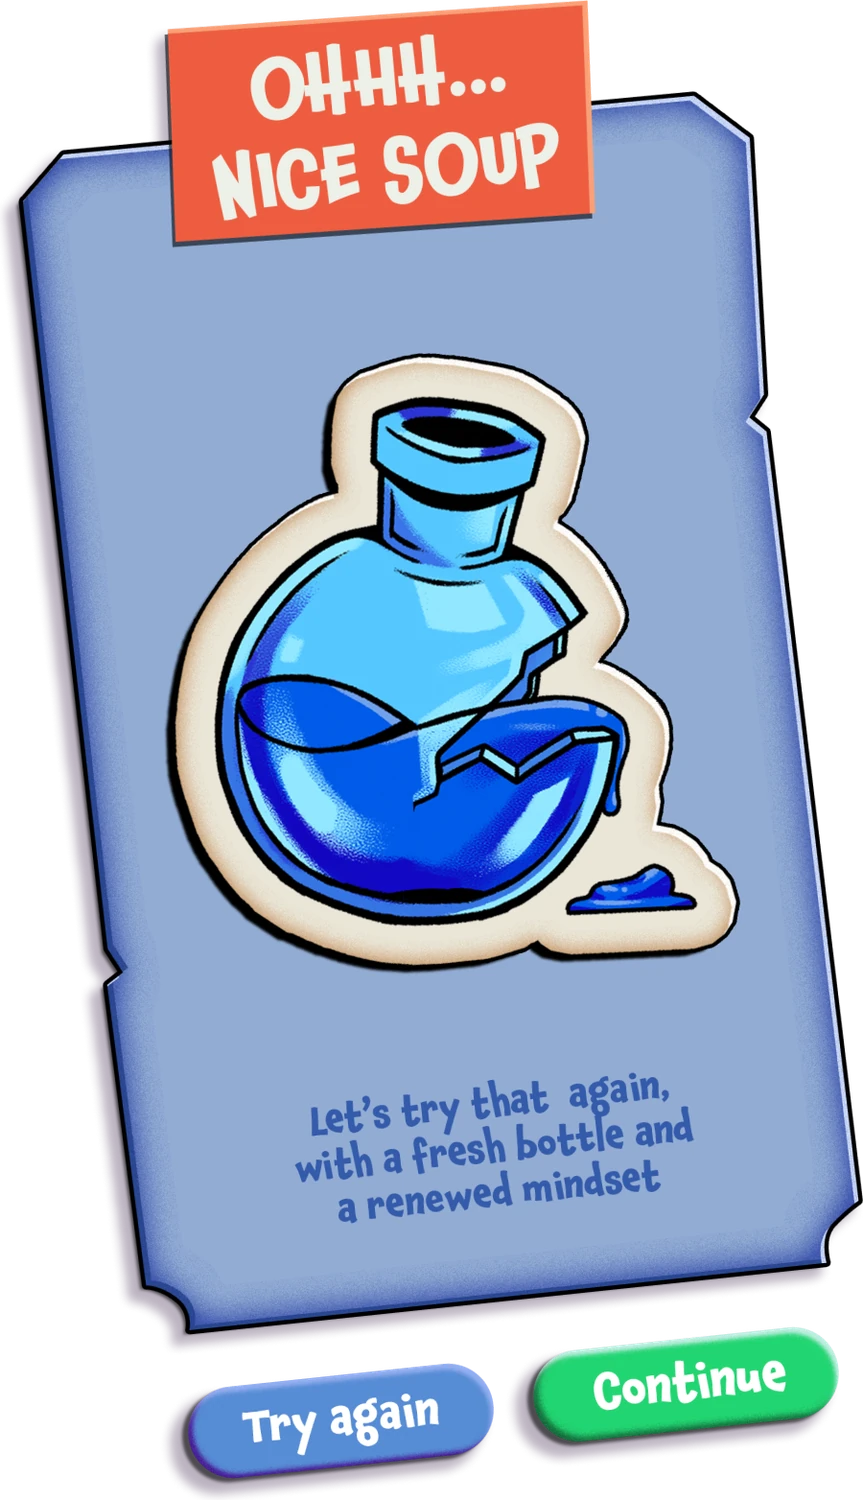
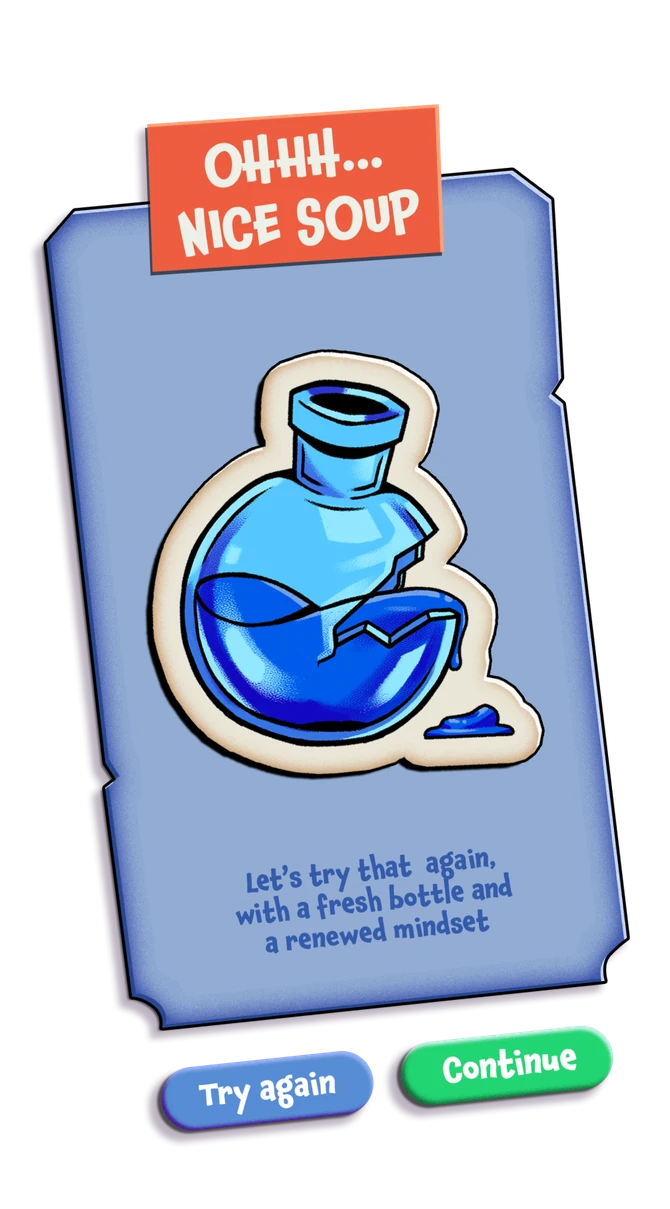
Matching Potions: toolkit, game screens and win/lose as loose pieces from Figma, each opens on its own and scales on hover

diff --git a/js/project-blocks.js b/js/project-blocks.js
@@ -58,22 +58,70 @@
           image: mp("shelves", 1144, 869, "Potion shelves"),
         },
         { type: "full", tone: "cream", image: mp("typography", 2400, 780, "Chaloops font for the titles, Providence Sans for body text, and the game’s colour palette: Mystic Amethyst #5D4AD9, Deep Midnight #272559, Lapis Powder #0A3EA6, #5CB6F9, #592202 and #CE5936") },
-        { type: "full", tone: "cream", flat: true, spots: [
-            { src: "assets/projects/matching-potions/c/gs-1.webp", alt: "Intro: the alchemy journal", bg: "#9ba9f5", x: 6.25, y: 21.94, w: 16.81, h: 73.51 },
-            { src: "assets/projects/matching-potions/c/gs-2.webp", alt: "Potions selection, level 2", bg: "#9ba9f5", x: 25.0, y: 14.42, w: 15.62, h: 72.41 },
-            { src: "assets/projects/matching-potions/c/gs-3.webp", alt: "Elixir of Clarity recipe", bg: "#9ba9f5", x: 42.36, y: 23.67, w: 15.14, h: 71.79 },
-            { src: "assets/projects/matching-potions/c/gs-4.webp", alt: "The potion shelf", bg: "#9ba9f5", x: 59.51, y: 16.93, w: 16.04, h: 72.73 },
-            { src: "assets/projects/matching-potions/c/gs-5.webp", alt: "Dew of Eternity identification card", bg: "#9ba9f5", x: 77.29, y: 20.53, w: 16.46, h: 73.2 },
-          ], image: mp("game-screens", 2400, 1063, "Game screens: intro journal, potions selection, Elixir of Clarity recipe, the potion shelf and the Dew of Eternity identification card") },
-        { type: "full", tone: "cream", spots: [
-            { src: "assets/projects/matching-potions/c/wl-lose.webp", alt: "Lose screen: Ohhh… nice soup", bg: "#9ba9f5", x: 29.79, y: 11.57, w: 22.71, h: 88.43 },
-            { src: "assets/projects/matching-potions/c/wl-game.webp", alt: "Match-3 gameplay", bg: "#9ba9f5", x: 54.93, y: 14.79, w: 18.68, h: 82.72 },
-            { src: "assets/projects/matching-potions/c/wl-win.webp", alt: "Win screen: Pure magic!", bg: "#9ba9f5", x: 76.04, y: 11.57, w: 22.71, h: 88.43 },
-            { src: "assets/projects/matching-potions/c/potion-cluster.webp", alt: "Prosperity on a Jar identification card and potion", bg: "#9ba9f5", x: 3.82, y: 17.57, w: 24.17, h: 64.86 },
-          ], image: mp("win-lose", 2400, 1138, "Win, lose and gameplay screens next to the potion illustration: Ohhh… nice soup, the Match-3 board and Pure magic!") },
         {
-          type: "feature", tone: "night",
-          image: mp("ui-toolkit", 1750, 1020, "UI toolkit: buttons, bars, stars and potion bottles"),
+          type: "scene", tone: "cream", flat: true, w: 1440, h: 638, bg: "#9ba9f5", itemBg: "#9ba9f5", radius: "clamp(24px, 3.5vw, 52px) clamp(24px, 3.5vw, 52px) 0 0",
+          layers: [
+            { src: "assets/projects/matching-potions/c/gs-title.webp", alt: "Game Screens", x: 571.3, y: 42.4, w: 297.9, h: 33.8, still: true },
+            { src: "assets/projects/matching-potions/c/gs-1.webp", alt: "Intro: the alchemy journal", x: 90, y: 140.1, w: 256.2, h: 483 },
+            { src: "assets/projects/matching-potions/c/gs-2.webp", alt: "Potions selection, level 2", x: 360.5, y: 92, w: 225.3, h: 461.5 },
+            { src: "assets/projects/matching-potions/c/gs-3.webp", alt: "Elixir of Clarity recipe", x: 610.3, y: 151.2, w: 217.9, h: 458.1 },
+            { src: "assets/projects/matching-potions/c/gs-4.webp", alt: "The potion shelf", x: 856.6, y: 107.9, w: 231.5, h: 464.4 },
+            { src: "assets/projects/matching-potions/c/gs-5.webp", alt: "Dew of Eternity identification card", x: 1113.3, y: 130.5, w: 236.7, h: 466.7 },
+          ],
+        },
+        {
+          type: "scene", tone: "cream", w: 1440, h: 683, bg: "#9ba9f5", itemBg: "#9ba9f5",
+          layers: [
+            { src: "assets/projects/matching-potions/c/potion-cluster.webp", alt: "Prosperity on a Jar identification card and potion", x: 55, y: 120, w: 348, h: 443 },
+            { src: "assets/projects/matching-potions/c/wl-lose.webp", alt: "Lose screen: Ohhh… nice soup", x: 422, y: 78, w: 335.2, h: 605 },
+            { src: "assets/projects/matching-potions/c/wl-game.webp", alt: "Match-3 gameplay", x: 791, y: 101, w: 268.8, h: 564.9 },
+            { src: "assets/projects/matching-potions/c/wl-win.webp", alt: "Win screen: Pure magic!", x: 1089.8, y: 79.3, w: 332.2, h: 603.7 },
+          ],
+        },
+        {
+          type: "scene", tone: "night", w: 1920, h: 1080, itemBg: "#f3e8d2",
+          layers: [
+            { src: "assets/projects/matching-potions/c/tk-bg.webp", x: 0, y: 0, w: 1920, h: 1080, still: true },
+            { src: "assets/projects/matching-potions/c/tk-00.webp", alt: "Toolkit page", x: 79, y: 39, w: 1751, h: 1021, still: true },
+            { src: "assets/projects/matching-potions/c/tk-01.webp", alt: "UI TOOLKIT", x: 721.0, y: 122.5, w: 473.3, h: 87.1, still: true },
+            { src: "assets/projects/matching-potions/c/tk-02.webp", alt: "Popup background", x: 276, y: 264, w: 293, h: 296 },
+            { src: "assets/projects/matching-potions/c/tk-03.webp", alt: "Shift Identity option button", x: 523, y: 716, w: 274, h: 47 },
+            { src: "assets/projects/matching-potions/c/tk-04.webp", alt: "Resume button", x: 618, y: 334, w: 177, h: 55 },
+            { src: "assets/projects/matching-potions/c/tk-05.webp", alt: "Pause button", x: 781, y: 507, w: 69, h: 67 },
+            { src: "assets/projects/matching-potions/c/tk-06.webp", alt: "Options button", x: 617, y: 414, w: 180, h: 56 },
+            { src: "assets/projects/matching-potions/c/tk-07.webp", alt: "Menu button", x: 698, y: 507, w: 69, h: 67 },
+            { src: "assets/projects/matching-potions/c/tk-08.webp", alt: "Inventory button", x: 617, y: 505, w: 69, h: 67 },
+            { src: "assets/projects/matching-potions/c/tk-09.webp", alt: "Exit button", x: 617, y: 255, w: 180, h: 56 },
+            { src: "assets/projects/matching-potions/c/tk-10.webp", alt: "Close button", x: 867, y: 507, w: 69, h: 67 },
+            { src: "assets/projects/matching-potions/c/tk-11.webp", alt: "Title frame, blue", x: 844, y: 279, w: 176, h: 72 },
+            { src: "assets/projects/matching-potions/c/tk-12.webp", alt: "Title frame, purple", x: 844, y: 393, w: 175, h: 67 },
+            { src: "assets/projects/matching-potions/c/tk-13.webp", alt: "Slider", x: 754, y: 615, w: 294, h: 55 },
+            { src: "assets/projects/matching-potions/c/tk-14.webp", alt: "Next arrow, right", x: 459, y: 716, w: 26, h: 45 },
+            { src: "assets/projects/matching-potions/c/tk-15.webp", alt: "Next arrow, left", x: 369, y: 716, w: 27, h: 47 },
+            { src: "assets/projects/matching-potions/c/tk-16.webp", alt: "Back button", x: 950, y: 507, w: 69, h: 67 },
+            { src: "assets/projects/matching-potions/c/tk-17.webp", alt: "Locked star", x: 569, y: 610, w: 61, h: 61 },
+            { src: "assets/projects/matching-potions/c/tk-18.webp", alt: "Star", x: 650, y: 609, w: 63, h: 63 },
+            { src: "assets/projects/matching-potions/c/tk-19.webp", alt: "Locked third star", x: 357, y: 600, w: 78, h: 74 },
+            { src: "assets/projects/matching-potions/c/tk-20.webp", alt: "Third star", x: 467, y: 600, w: 79, h: 75 },
+            { src: "assets/projects/matching-potions/c/tk-21.webp", alt: "Ingredient counter, checked", x: 255, y: 610, w: 72, h: 65 },
+            { src: "assets/projects/matching-potions/c/tk-22.webp", alt: "Ingredient counter", x: 862, y: 707, w: 157, h: 65 },
+            { src: "assets/projects/matching-potions/c/tk-23.webp", alt: "Potion identification card", x: 1051, y: 211, w: 334, h: 531 },
+            { src: "assets/projects/matching-potions/c/tk-24.webp", alt: "Potion identification card", x: 1488.8, y: 125, w: 281.4, h: 428.7 },
+            { src: "assets/projects/matching-potions/c/tk-25.webp", alt: "Potion identification card", x: 1361, y: 329, w: 297.9, h: 438.1 },
+            { src: "assets/projects/matching-potions/c/tk-26.webp", alt: "Potion, level 1 · luck", x: 1303, y: 809, w: 92, h: 128 },
+            { src: "assets/projects/matching-potions/c/tk-27.webp", alt: "Potion, level 3 · health", x: 1578, y: 783, w: 169, h: 182 },
+            { src: "assets/projects/matching-potions/c/tk-28.webp", alt: "Potion, level 1 · love", x: 534, y: 809, w: 85, h: 157 },
+            { src: "assets/projects/matching-potions/c/tk-29.webp", alt: "Potion, level 1 · health", x: 218, y: 778, w: 127, h: 191 },
+            { src: "assets/projects/matching-potions/c/tk-30.webp", alt: "Potion, level 2 · luck", x: 386, y: 799, w: 99, h: 163 },
+            { src: "assets/projects/matching-potions/c/tk-31.webp", alt: "Potion, level 2 · love", x: 1179, y: 810, w: 89, h: 140 },
+            { src: "assets/projects/matching-potions/c/tk-32.webp", alt: "Potion, level 3 · abundance", x: 1424, y: 781, w: 113, h: 188 },
+            { src: "assets/projects/matching-potions/c/tk-33.webp", alt: "Potion, level 3 · love", x: 794, y: 789, w: 99, h: 170 },
+            { src: "assets/projects/matching-potions/c/tk-34.webp", alt: "Potion, level 3 · luck", x: 1037, y: 792, w: 98, h: 163 },
+            { src: "assets/projects/matching-potions/c/tk-35.webp", alt: "Potion, level 1 · spirit", x: 684, y: 796, w: 50, h: 170 },
+            { src: "assets/projects/matching-potions/c/tk-36.webp", alt: "Potion, level 2 · health", x: 930, y: 832, w: 73, h: 105 },
+            { src: "assets/projects/matching-potions/c/tk-37.webp", alt: "Start button", x: 291, y: 162, w: 212, h: 66 },
+            { src: "assets/projects/matching-potions/c/tk-38.webp", alt: "Loading screen bottle", x: 540, y: 149, w: 66, h: 79 },
+          ],
         },
         {
           type: "split", tone: "parchment", side: "left",

diff --git a/js/project.js b/js/project.js
@@ -97,6 +97,18 @@
         </div>`,
       text: (b) => `
         <div class="cb-center rv">${head(b.title)}${para(b.text)}${b.note ? `<p class="cb-note">${b.note}</p>` : ""}</div>`,
+      scene: (b) => {
+        // a composition of separate pieces (exported from Figma) laid out as in the design; the interactive ones open on their own and grow a little on hover
+        const pc = (v, t) => `${Math.round((v / t) * 10000) / 100}%`;
+        const layer = (l) => {
+          const pos = `left:${pc(l.x, b.w)};top:${pc(l.y, b.h)};width:${pc(l.w, b.w)};height:${pc(l.h, b.h)}`;
+          const im = `<img src="${l.src}" alt="${l.alt || ""}" width="${Math.round(l.w * 2)}" height="${Math.round(l.h * 2)}" loading="lazy" decoding="async" />`;
+          return l.still
+            ? `<img class="sc-still no-lb" src="${l.src}" alt="${l.alt || ""}" style="${pos}" loading="lazy" decoding="async" />`
+            : `<button type="button" class="sc-item" data-full="${l.src}" data-alt="${l.alt || ""}" data-bg="${b.itemBg || ""}" aria-label="Open: ${l.alt || "image"}" style="${pos}">${im}</button>`;
+        };
+        return `<div class="cb-scene rv" style="aspect-ratio:${b.w}/${b.h};${b.radius ? `border-radius:${b.radius};` : ""}${b.bg ? `background:${b.bg};` : ""}">${b.layers.map(layer).join("")}</div>`;
+      },
       video: (b) => `
         <div class="cb-video rv"><iframe title="${b.title}" src="${b.src}" loading="lazy" frameborder="0" referrerpolicy="strict-origin-when-cross-origin" allow="autoplay; fullscreen; picture-in-picture; clipboard-write; encrypted-media; web-share" allowfullscreen></iframe></div>`,
       full: (b) => `<figure class="cb-full rv ${b.spots ? "has-spots" : ""}">${pic(b.image, b.spots ? "no-lb" : "")}${(b.spots || []).map((s) => `<button type="button" class="hs" data-full="${s.src}" data-alt="${s.alt}" data-bg="${s.bg || ""}" aria-label="Open: ${s.alt}" style="left:${s.x}%;top:${s.y}%;width:${s.w}%;height:${s.h}%"></button>`).join("")}</figure>`,
@@ -229,7 +241,7 @@
 
   // every image of the case study opens bigger (click / Enter), with arrows to move between them
   safe(() => {
-    const imgs = () => [...document.querySelectorAll(".cb img:not(.no-lb), .cb .hs, .cs-section img")];
+    const imgs = () => [...document.querySelectorAll(".cb img:not(.no-lb):not(.sc-item img), .cb .hs, .cb .sc-item, .cs-section img")];
     let box, cur = 0, opener = null;
     const show = (i) => {
       const list = imgs(); cur = (i + list.length) % list.length;
@@ -272,7 +284,7 @@
       addEventListener("keydown", onKey);
       box.querySelector(".lb-close").focus();
     };
-    root.addEventListener("click", (e) => { const el = e.target.closest(".cb img:not(.no-lb), .cb .hs, .cs-section img"); if (el) open(el); });
+    root.addEventListener("click", (e) => { const el = e.target.closest(".cb .sc-item, .cb .hs") || e.target.closest(".cb img:not(.no-lb), .cs-section img"); if (el) open(el); });
     imgs().forEach((el) => { el.tabIndex = 0; el.setAttribute("role", "button"); el.addEventListener("keydown", (e) => { if (e.key === "Enter") open(el); }); });
   }, "lightbox");
 

diff --git a/css/styles.css b/css/styles.css
@@ -901,6 +901,18 @@ body.lb-open { overflow: hidden; }
 .cb-video iframe { display: block; width: 100%; height: 100%; border: 0; }
 .cb-full-block { padding: 0; }
 .cb-flat { border-bottom: 0; }
+/* scene: loose pieces placed as in the Figma; interactive ones scale up a little on hover */
+.cb-scene-block { padding: 0; }
+.cb-scene-block > * { max-width: none; }
+.cb-scene { position: relative; overflow: hidden; width: 100%; }
+.cb-scene .sc-still { position: absolute; display: block; pointer-events: none; user-select: none; }
+.cb-scene .sc-item {
+  position: absolute; padding: 0; border: 0; background: none; cursor: zoom-in; display: block;
+  transition: transform .35s var(--ease-out), filter .35s;
+}
+.cb-scene .sc-item img { display: block; width: 100%; height: 100%; object-fit: contain; pointer-events: none; }
+.cb-scene .sc-item:hover, .cb-scene .sc-item:focus-visible { transform: scale(1.07); z-index: 5; filter: drop-shadow(0 12px 18px rgba(0, 0, 0, .28)); outline: none; }
+@media (prefers-reduced-motion: reduce) { .cb-scene .sc-item { transition: none; } .cb-scene .sc-item:hover { transform: none; } }
 /* invisible click areas over a composed image: each opens its own piece in the viewer */
 .cb-full.has-spots { position: relative; }
 .cb-full .hs { position: absolute; padding: 0; border: 0; background: transparent; cursor: zoom-in; border-radius: 18px; transition: background .25s, box-shadow .25s; }

diff --git a/project.html b/project.html
@@ -12,7 +12,7 @@
   <!-- Tumb, licensed through Maria's Adobe Fonts (Creative Cloud) web project -->
   <link rel="preconnect" href="https://use.typekit.net" crossorigin />
   <link rel="stylesheet" href="https://use.typekit.net/sxu4bkt.css" />
-  <link rel="stylesheet" href="css/styles.css?v=202611121627" />
+  <link rel="stylesheet" href="css/styles.css?v=202611121635" />
 </head>
 <body>
   <svg width="0" height="0" style="position:absolute" aria-hidden="true">
@@ -35,8 +35,8 @@
     <a href="#top" onclick="scrollTo({top:0,behavior:'smooth'});return false;">Back to top ↑</a>
   </footer>
 
-  <script defer src="js/projects.js?v=202611121627"></script>
-  <script defer src="js/project-blocks.js?v=202611121627"></script>
-  <script defer src="js/project.js?v=202611121627"></script>
+  <script defer src="js/projects.js?v=202611121635"></script>
+  <script defer src="js/project-blocks.js?v=202611121635"></script>
+  <script defer src="js/project.js?v=202611121635"></script>
 </body>
 </html>

diff --git a/index.html b/index.html
@@ -13,7 +13,7 @@
   <!-- Tumb, licensed through Maria's Adobe Fonts (Creative Cloud) web project -->
   <link rel="preconnect" href="https://use.typekit.net" crossorigin />
   <link rel="stylesheet" href="https://use.typekit.net/sxu4bkt.css" />
-  <link rel="stylesheet" href="css/styles.css?v=202611121627" />
+  <link rel="stylesheet" href="css/styles.css?v=202611121635" />
 </head>
 <body>
 
@@ -217,7 +217,7 @@
     <a href="#top">Back to top ↑</a>
   </footer>
 
-  <script defer src="js/projects.js?v=202611121627"></script>
-  <script defer src="js/main.js?v=202611121627"></script>
+  <script defer src="js/projects.js?v=202611121635"></script>
+  <script defer src="js/main.js?v=202611121635"></script>
 </body>
 </html>
